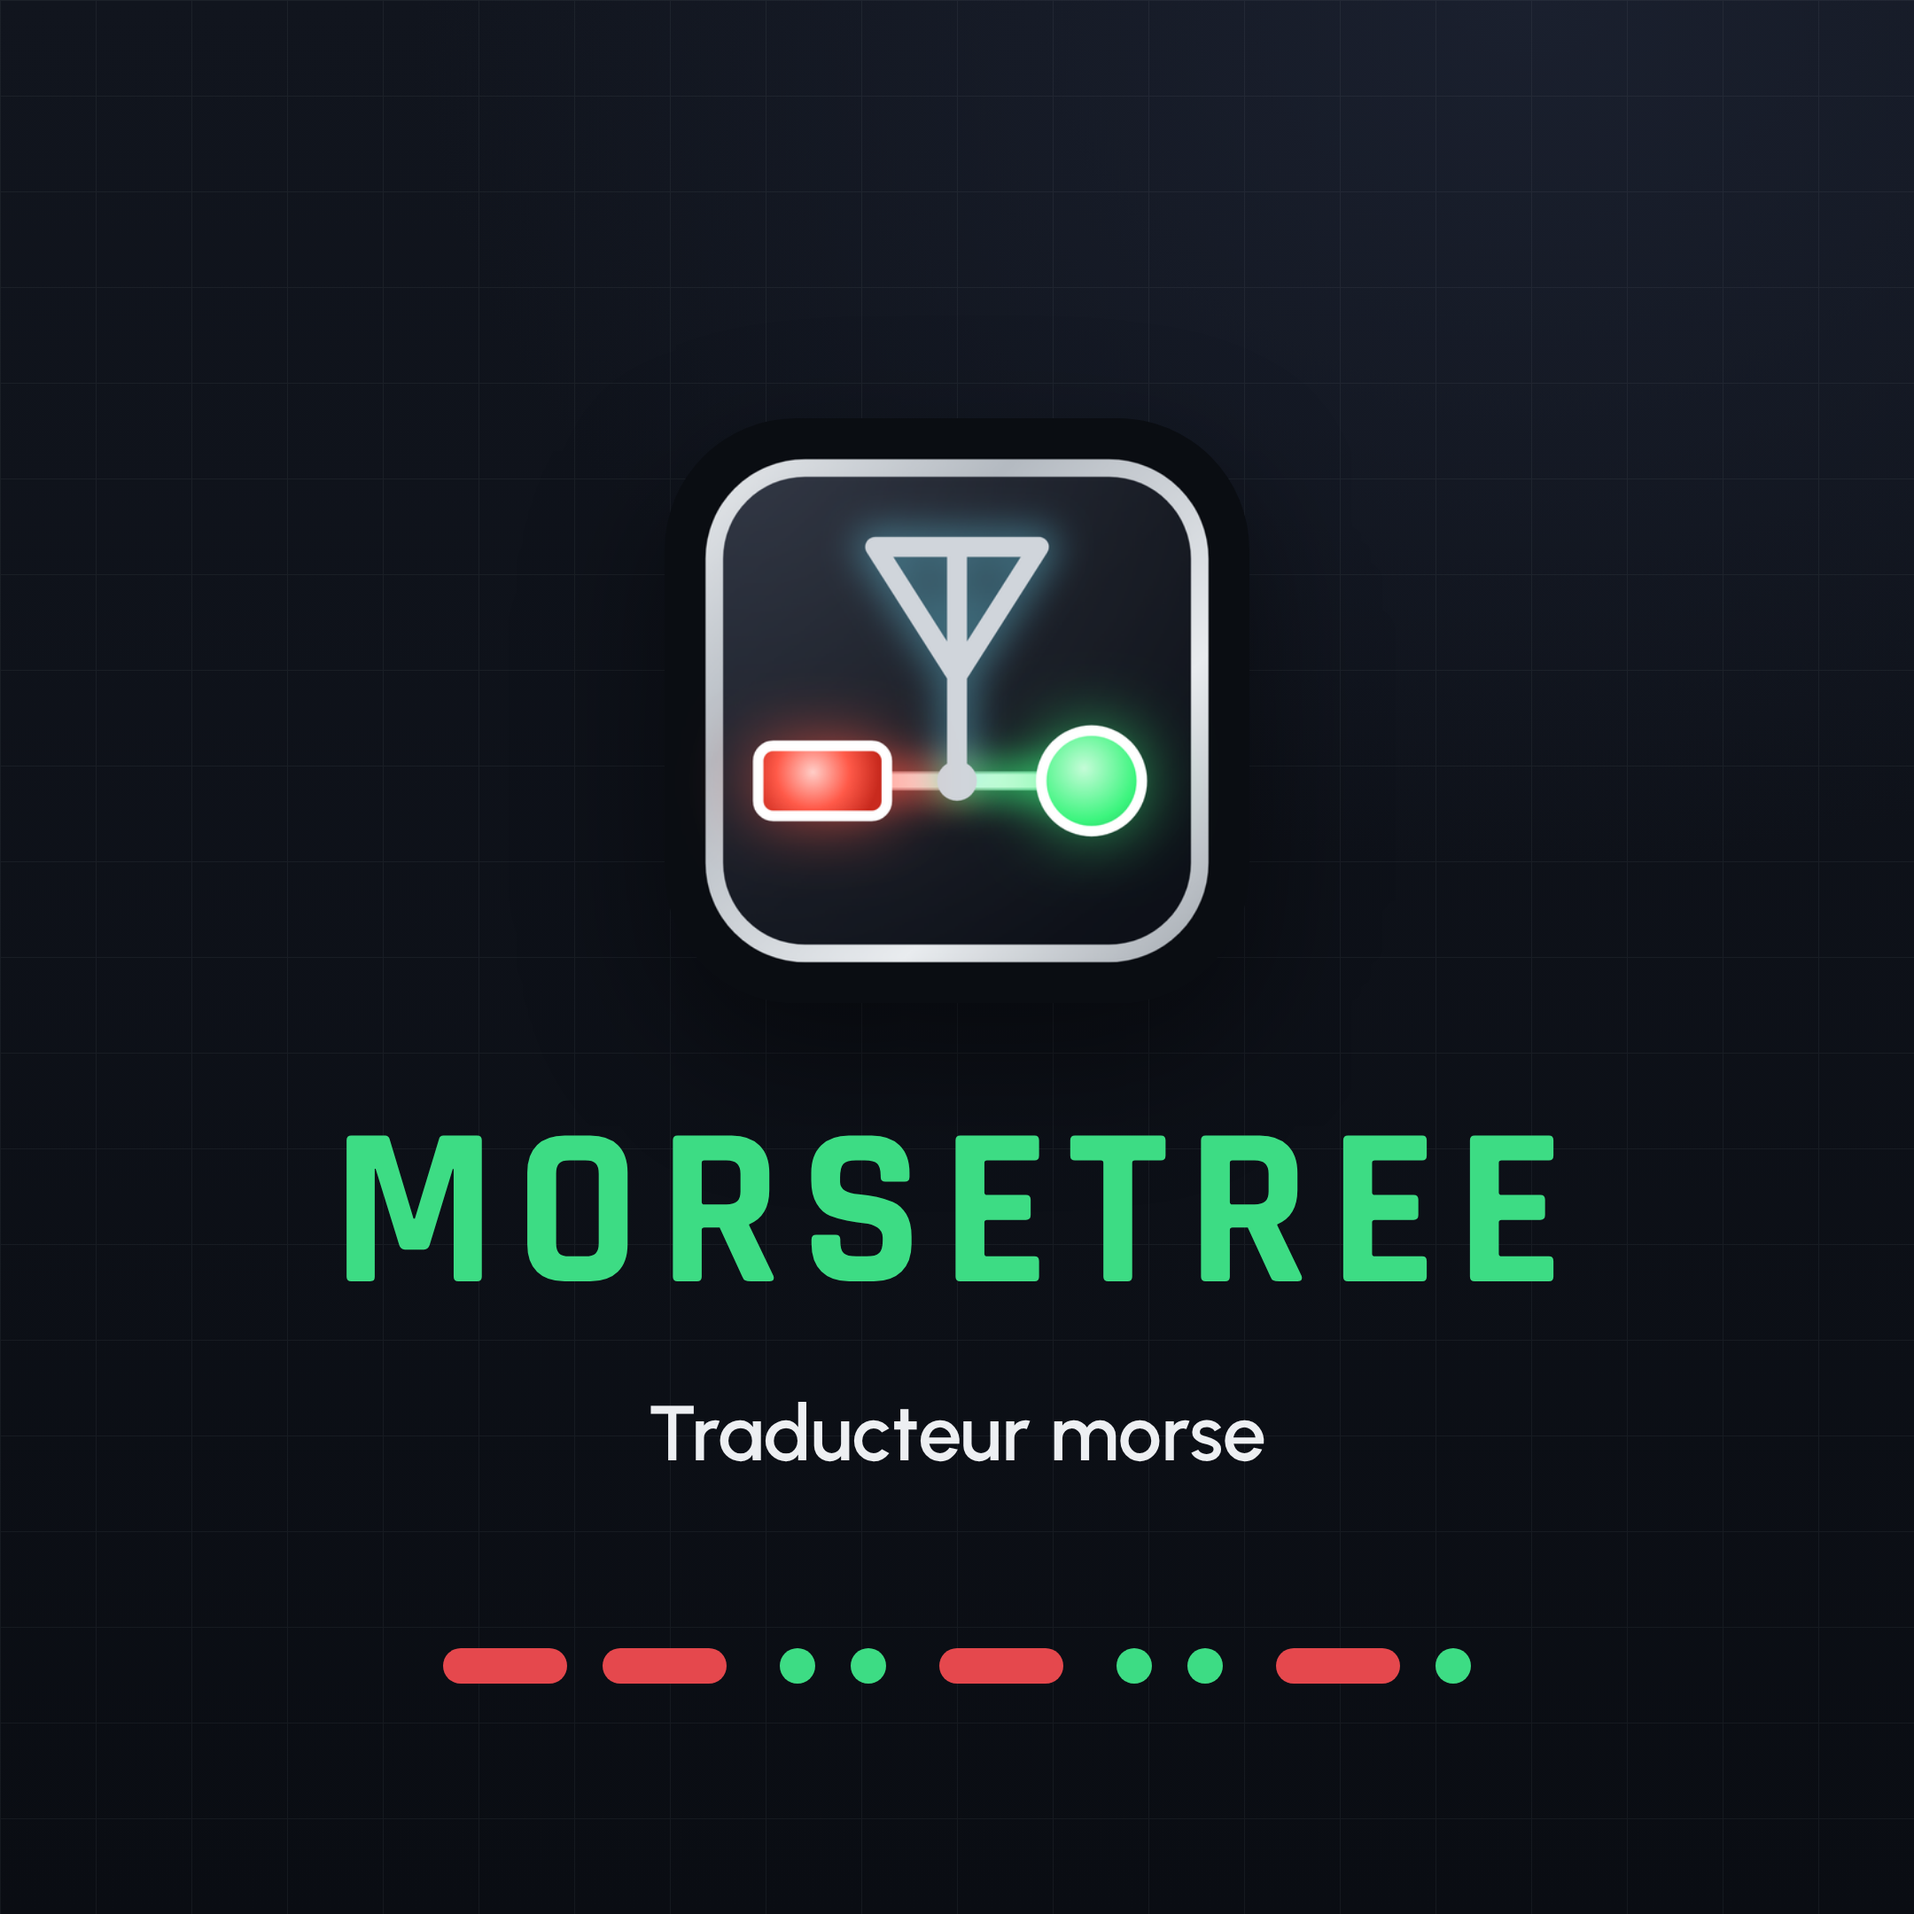
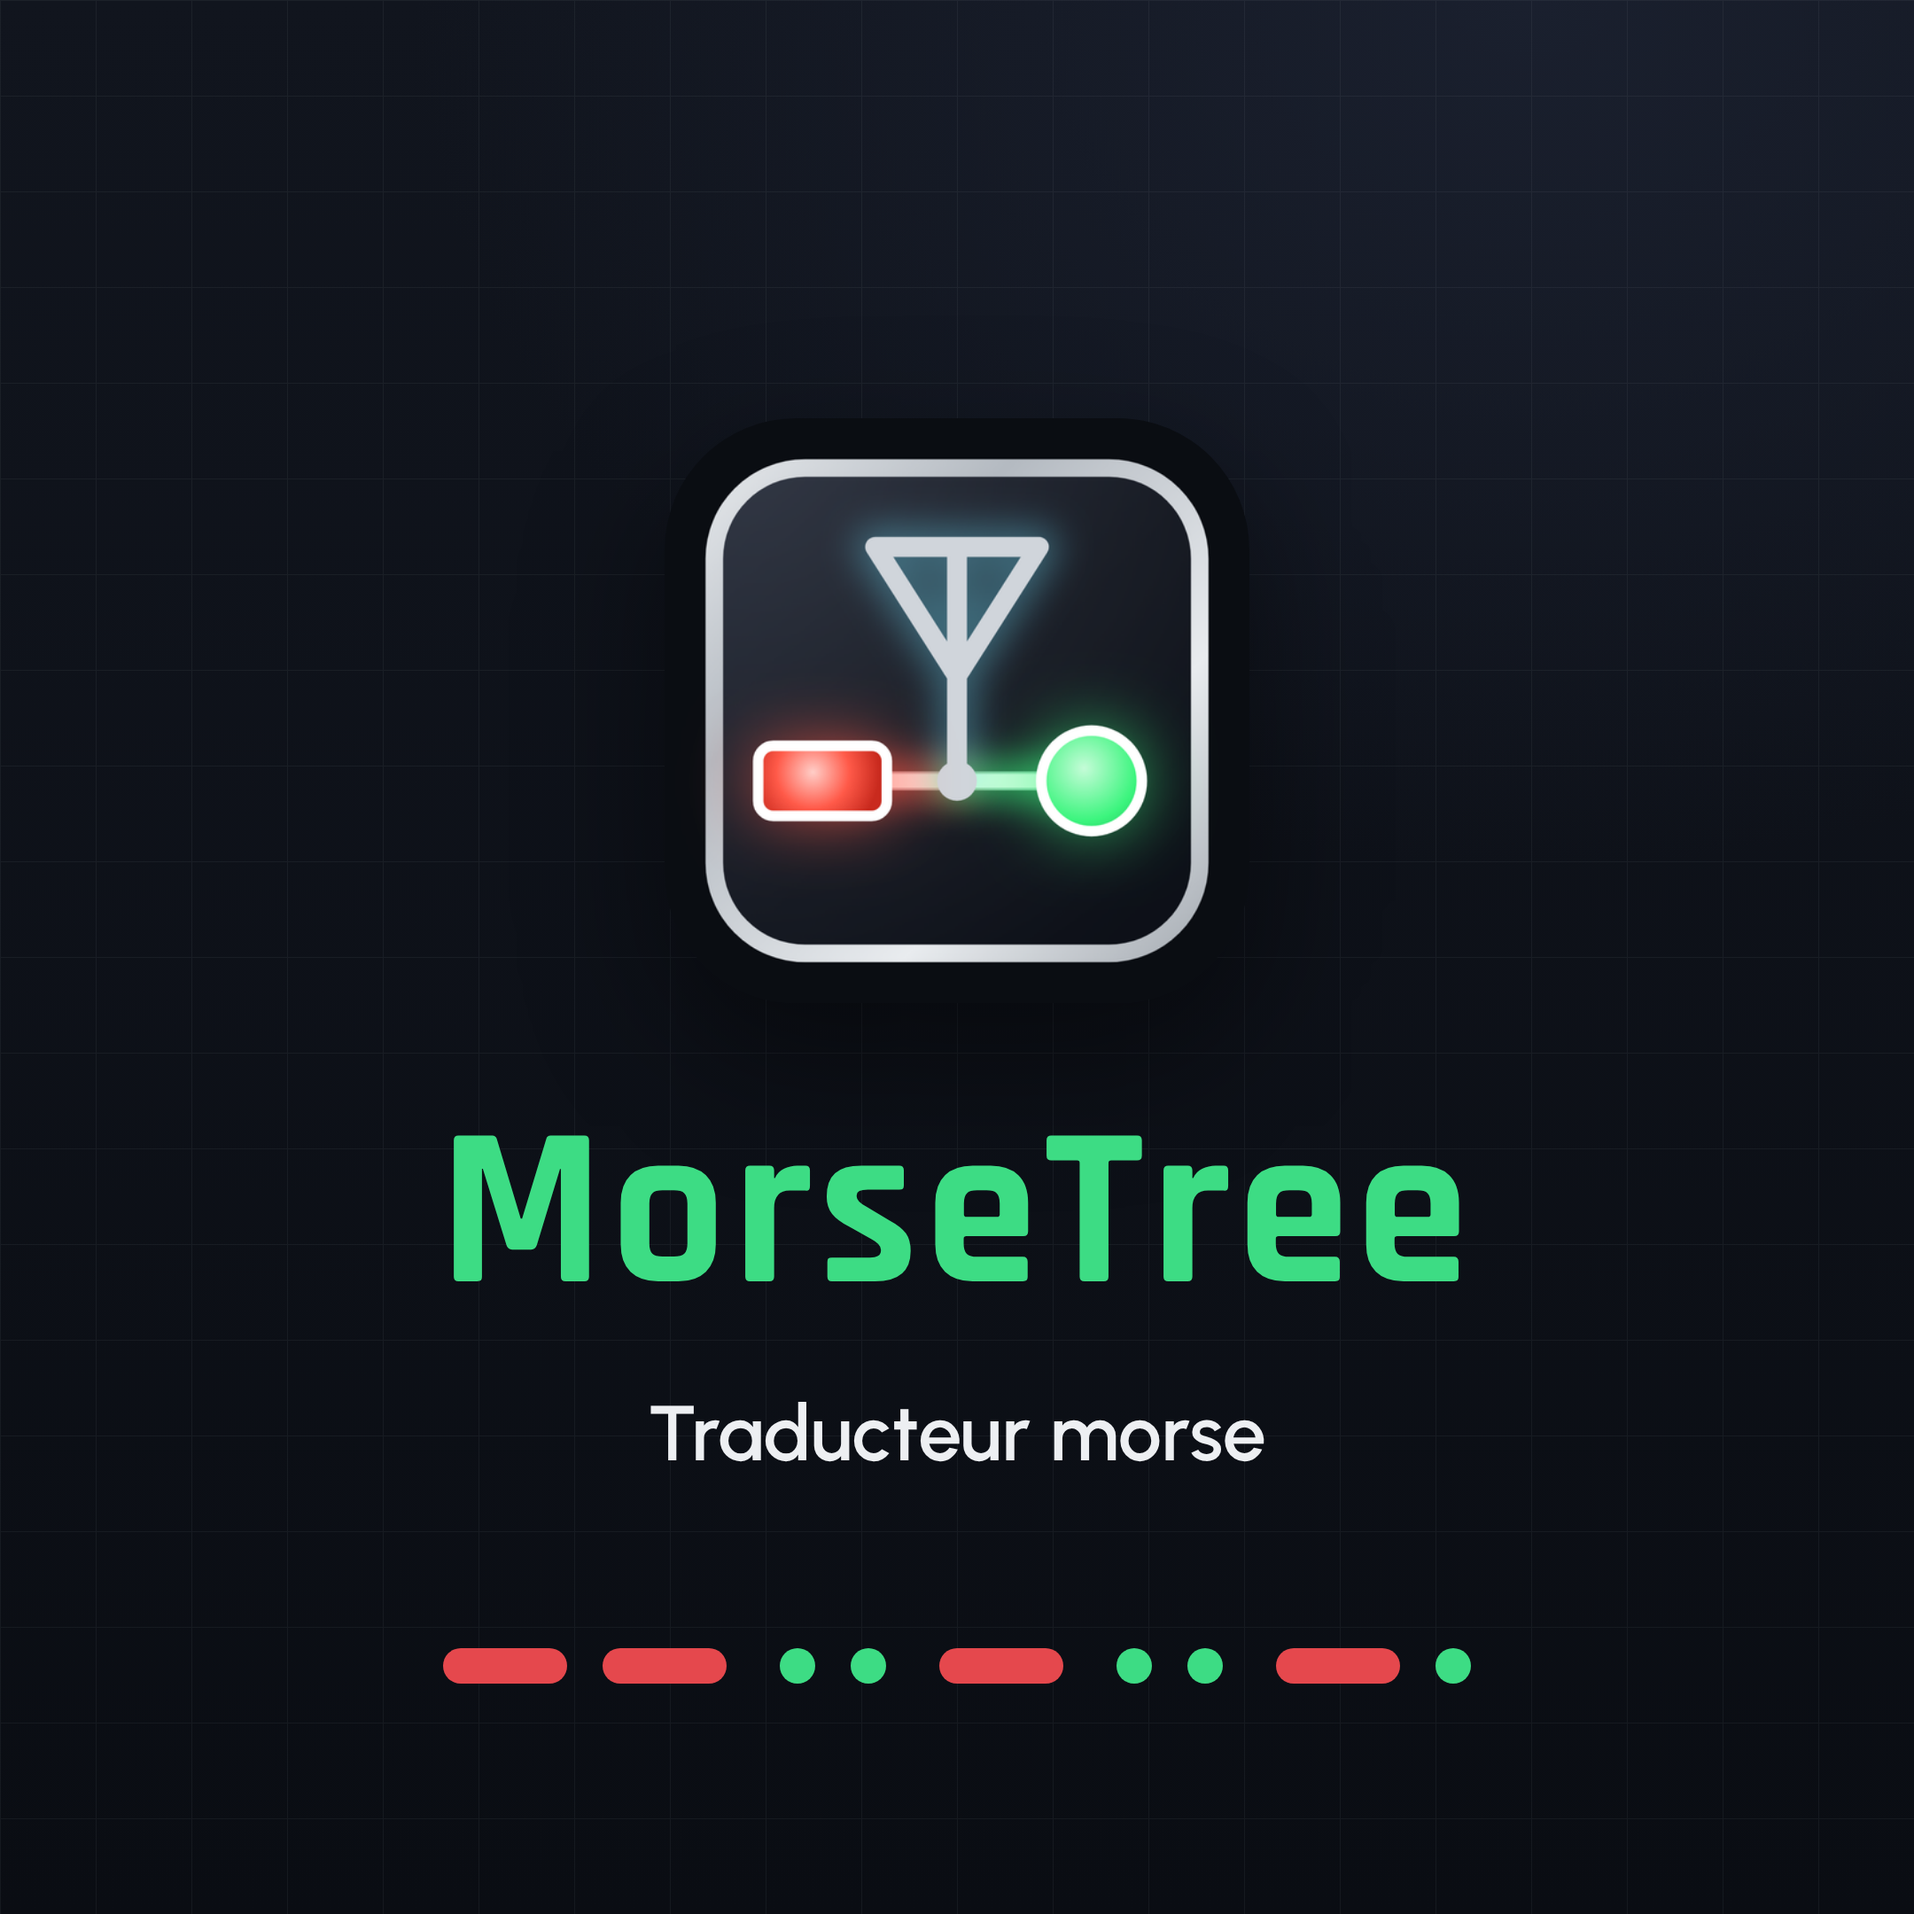
MorseTree et RingWise : nom toujours écrit avec sa casse exacte (plus de capitales)
Claude-Session: https://claude.ai/code/session_01TfTE7TWNgMkRkUzR8uqRLW

Changed region(s): [[0.1551, 0.5894, 0.8065, 0.6824]]

diff --git a/assets/css/brainboiled.css b/assets/css/brainboiled.css
@@ -92,12 +92,12 @@
 [data-app="morsetree"]{
   --app-fond:#11151E; --app-fond-2:#0A0D13; --app-surface:#1B2130; --app-trait:rgba(208,213,219,.14);
   --app-texte:#EDEFF2; --app-gris:#A3ABB8; --app-accent:#3DDC84; --app-accent-2:#E6C56F; --app-sur-accent:#0A0D13;
-  --app-titre:"Rajdhani",var(--font-brand); --app-titre-graisse:700; --app-titre-casse:uppercase; --app-titre-espace:.08em;
+  --app-titre:"Rajdhani",var(--font-brand); --app-titre-graisse:700; --app-titre-espace:.03em;
 }
 [data-app="ringwise"]{
   --app-fond:#161A20; --app-fond-2:#0E1115; --app-surface:#222830; --app-trait:rgba(243,240,228,.13);
   --app-texte:#F3F0E4; --app-gris:#B6B4AA; --app-accent:#FF6A2B; --app-accent-2:#F3F0E4; --app-sur-accent:#0E1115;
-  --app-titre:"Barlow Condensed",var(--font-brand); --app-titre-graisse:700; --app-titre-casse:uppercase; --app-titre-espace:.02em;
+  --app-titre:"Barlow Condensed",var(--font-brand); --app-titre-graisse:700; --app-titre-espace:.01em;
 }
 
 /* ---------- Base ---------- */

diff --git a/charte/morsetree/README.md b/charte/morsetree/README.md
@@ -6,7 +6,7 @@ L'identité est celle d'un **circuit imprimé de radioamateur, la nuit** : graph
 
 ## Le nom
 
-- On écrit **MorseTree** : un seul mot, M et T majuscules. Jamais « Morse Tree », « Morsetree » ni « MORSE TREE ». Dans les visuels en capitales : « MORSETREE ». L'adresse web est `/morsetree/`.
+- On écrit **MorseTree** : un seul mot, M et T majuscules. Jamais « Morse Tree », « Morsetree » ni « MORSE TREE ». Toujours avec cette casse, y compris dans les visuels : pas de version tout en capitales. L'adresse web est `/morsetree/`.
 - À mettre à jour : le nom affiché sous l'icône (`android:label="Morse Tree"`) et l'image de présentation, qui écrit encore « MORSE / TREE » sur deux lignes.
 - Invariable dans toutes les langues.
 - Éditeur : « une appli brainboiled ».
@@ -15,7 +15,7 @@ L'identité est celle d'un **circuit imprimé de radioamateur, la nuit** : graph
 
 - **Symbole** : une antenne en Y, reliée à gauche à un trait rouge (le tiret) et à droite à un point vert (le point), dans un cadre d'acier arrondi, sur graphite.
 - **Icône** : `play-store/icone-512.png` du dépôt MorseTree (copie web : `assets/apps/morsetree-icon-192.png`).
-- **Logo avec le nom** : antenne dorée + « MORSETREE » en Rajdhani Bold capitales espacées blanches, avec la ligne de tirets rouges et points verts.
+- **Logo avec le nom** : antenne dorée + « MorseTree » en Rajdhani Bold, avec la ligne de tirets rouges et points verts.
 - Le rouge est toujours le **trait**, le vert toujours le **point** : ne jamais les inverser.
 
 ## Les couleurs
@@ -36,7 +36,7 @@ Contraste : diode-verte sur graphite 10,2:1, blanc 15,9:1.
 
 ## La typographie
 
-- **Rajdhani** : Bold (700) en capitales espacées (0,08 em) pour le nom et les titres ; Medium pour les libellés de la carte.
+- **Rajdhani** : Bold (700) pour le nom et les titres ; Medium pour les libellés de la carte.
 - Sur le site, le texte courant est en Urbanist (voix commune brainboiled).
 - Les alphabets non latins des cartes (cyrillique, grec, japonais) utilisent les polices Noto correspondantes.
 
@@ -54,7 +54,7 @@ Contraste : diode-verte sur graphite 10,2:1, blanc 15,9:1.
 ## Les visuels du store
 
 - **Icône** 512 × 512.
-- **Image de présentation** 1024 × 500 : graphite avec grille, antenne dorée et ligne morse à gauche, « MORSETREE » en capitales sur une ligne, la carte animée inclinée à droite. Modèle actuel, à garder en corrigeant le nom.
+- **Image de présentation** 1024 × 500 : graphite avec grille, antenne dorée et ligne morse à gauche, « MorseTree » sur une ligne, la carte animée inclinée à droite. Modèle actuel, à garder en corrigeant le nom.
 - **Captures** 1080 × 1920 : titre en `diode-verte`, sous-titre en `blanc-ecran`, écran réel dans un téléphone coupé par le bas.
 
 ## L'éditeur

diff --git a/charte/ringwise/README.md b/charte/ringwise/README.md
@@ -6,7 +6,7 @@ L'identité est celle du **pas de tir** : le noir et le crème du carton, l'oran
 
 ## Le nom
 
-- On écrit **RingWise** : R et W majuscules, en un mot. Dans les visuels, en capitales : « RINGWISE ».
+- On écrit **RingWise** : R et W majuscules, en un mot. Toujours avec cette casse, y compris dans les visuels : pas de version tout en capitales.
 - Titre sur le store : « RingWise – Score & Coach ».
 - Éditeur : « une appli brainboiled ».
 - Attention (voir `docs/play-store.md` du dépôt) : le nom commence par « Ring », marque très protégée en classe 9. Faire la recherche TMview/USPTO avant d'investir dans le logo définitif.
@@ -16,7 +16,7 @@ L'identité est celle du **pas de tir** : le noir et le crème du carton, l'oran
 - **Symbole** : un carton de tir (anneaux noirs et crème) avec la mouche orange au centre, et les silhouettes d'un tireur à la carabine, au pistolet et à l'arbalète.
 - **Icône** : `app/assets/icon/icon.png` du dépôt RingWise (copie web : `assets/apps/ringwise-icon-192.png`).
 - Recommandation : l'icône est très détaillée et se lit mal en 48 px. Garder la version actuelle pour le store et prévoir une **version simplifiée** (anneaux + mouche, sans silhouettes) pour le monochrome Android 13 et les petites tailles.
-- **Logo avec le nom** : l'icône suivie de « RINGWISE » en Barlow Condensed Bold crème.
+- **Logo avec le nom** : l'icône suivie de « RingWise » en Barlow Condensed Bold.
 
 ## Les couleurs
 
@@ -35,7 +35,7 @@ Contraste : mouche sur charbon 6,1:1, crème 15,3:1.
 
 ## La typographie
 
-- **Barlow Condensed** Bold (700) en capitales pour le nom, les titres et les **scores** (chiffres étroits, lisibles comme un tableau d'affichage).
+- **Barlow Condensed** Bold (700) pour le nom, les titres et les **scores** (chiffres étroits, lisibles comme un tableau d'affichage).
 - **IBM Plex Sans** pour le texte de l'appli (déjà utilisé dans le prototype).
 - Sur le site, le texte courant est en Urbanist (voix commune brainboiled).
 
@@ -54,7 +54,7 @@ Contraste : mouche sur charbon 6,1:1, crème 15,3:1.
 ## Les visuels du store
 
 - **Icône** 512 × 512.
-- **Image de présentation** 1024 × 500 : dégradé horizontal `charbon-clair` → `noir-carton`, icône à gauche, « RINGWISE » en `creme-carton`, sous-titre « Score & Coach » en `mouche`.
+- **Image de présentation** 1024 × 500 : dégradé horizontal `charbon-clair` → `noir-carton`, icône à gauche, « RingWise » en `mouche`, sous-titre « Score & Coach » en `mouche`.
 - **Captures** 1080 × 1920 (6 par langue, FR, EN, DE) : titre en `mouche`, sous-titre en `creme-carton`, écran réel dans un téléphone coupé par le bas.
 
 ## L'éditeur

diff --git a/BRAND.md b/BRAND.md
@@ -122,8 +122,8 @@ Chaque appli a sa personnalité, mais toutes suivent les mêmes règles. C'est c
 | **FlowDay** | Bleu canard `#123F4E` | Soleil `#FFC438` | Turquoise clair `#7FD3E3` | Nunito ExtraBold | Le « f » qui part en flèche, point de départ jaune |
 | **Diafra** | Brun profond `#16110A` | Or `#F0C454` | Jaune collimateur `#FFC400` | Roboto Bold | Diaphragme or à six lames |
 | **Origins** | Nuit cosmique `#0B0E1C` | Or gravé `#D9B25F` | Lavande stellaire `#AEB8E6` | IM Fell English | Galaxie dorée dans un médaillon gravé |
-| **MorseTree** | Graphite `#11151E` | Vert diode `#3DDC84` | Or antenne `#E6C56F` | Rajdhani Bold capitales | Antenne, trait rouge et point vert |
-| **RingWise** | Charbon `#161A20` | Orange mouche `#FF6A2B` | Crème carton `#F3F0E4` | Barlow Condensed Bold capitales | Cible noire et crème, mouche orange |
+| **MorseTree** | Graphite `#11151E` | Vert diode `#3DDC84` | Or antenne `#E6C56F` | Rajdhani Bold | Antenne, trait rouge et point vert |
+| **RingWise** | Charbon `#161A20` | Orange mouche `#FF6A2B` | Crème carton `#F3F0E4` | Barlow Condensed Bold | Cible noire et crème, mouche orange |
 
 Les deux ors (Diafra et Origins) restent distincts : l'or de Diafra est vif et chaud sur un brun, celui d'Origins est patiné, sur un bleu nuit, avec une police à l'ancienne.
 
